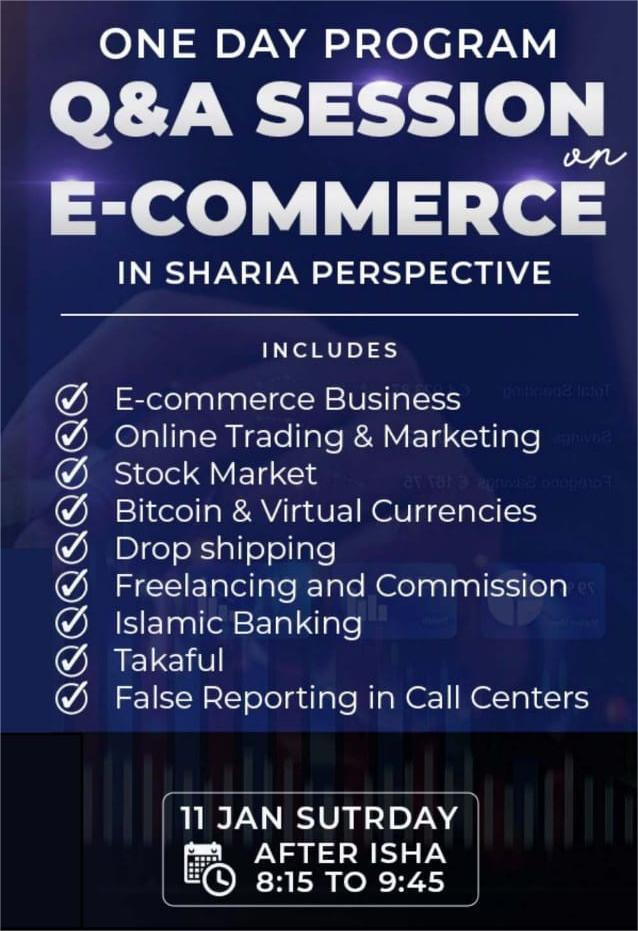
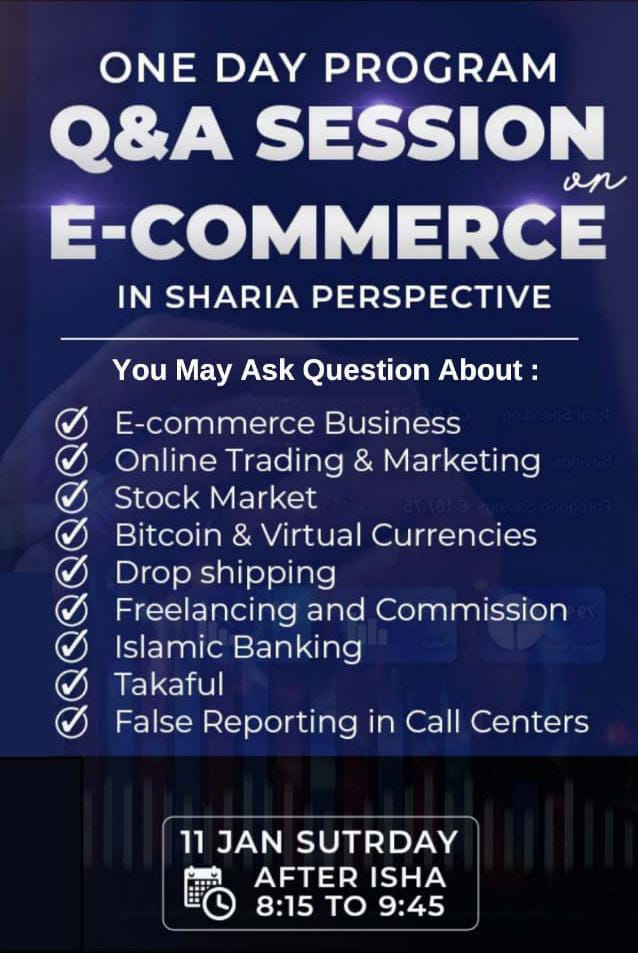
new update

diff --git a/src/componentHome/Welcom.jsx b/src/componentHome/Welcom.jsx
@@ -7,14 +7,13 @@ export default function Welcom() {
       <h1 className="text-4xl md:text-6xl playfair font-bold text-center pt-8 pb-2" data-aos="zoom-in">
         Welcome to the Islamic World
       </h1>
-      <p className="text-center text-lg md:text-2xl font-semibold pb-10" data-aos="fade-up"
-     data-aos-duration="3000">
+      <p className="text-center text-lg md:text-2xl font-semibold pb-10" data-aos="zoom-in">
         Education at Your Doorstep
       </p>
 
       <div className="p-6 geist leading-6 md:leading-9 text-sm md:text-xl  border-2 border-black rounded-lg shadow-xl bg-gray-100  shadow-gray-700 mx-auto max-w-2xl" data-aos="flip-left"
      data-aos-easing="ease-out-cubic"
-     data-aos-duration="2000">
+     data-aos-duration="1000">
         <p>
           Our organization is committed to spreading Islam to every home. Now,
           it is no longer necessary to go anywhere because education will come

diff --git a/src/compunentCourse/CurrentCourse.jsx b/src/compunentCourse/CurrentCourse.jsx
@@ -5,7 +5,15 @@ import { Button } from "flowbite-react";
 // import Nazra from "../assets/courseOne/nazra1.jpg";
 // import norani from "../assets/courseOne/norani.jpg";
 import post from "../assets/popup/post.jpg"
+import { useNavigate } from "react-router-dom";
 export default function Course() {
+     const Navigate = useNavigate();
+    const register = ()=>{
+        Navigate("/registration");
+    }
+
+
+
   const CourseDtails = [
     {
       name1: "Q%A Session On E-Commerce",
@@ -102,7 +110,7 @@ export default function Course() {
                 <p className="pt-2">~{CourseDtails[id].Doration}</p>
               </div>
               <div>
-                <Button color="blue" className="mt-4 w-[100%]">
+                <Button color="blue" className="mt-4 w-[100%]" onClick={register}>
                   Enroll Now
                 </Button>
               </div>

diff --git a/src/App.jsx b/src/App.jsx
@@ -66,7 +66,7 @@ export default function App() {
     { path: "/qurantarjama", element: (<Suspense fallback={<Loader />}><QuranTarjama /></Suspense>) },
     { path: "/contact", element: (<Suspense fallback={<Loader />}><Contact /></Suspense>) },
     { path: "/it", element: (<Suspense fallback={<Loader />}><IT /></Suspense>) },
-    { path: "registration", element: (<Suspense fallback={<Loader />}><Registration /></Suspense>) },
+    { path: "/registration", element: (<Suspense fallback={<Loader />}><Registration /></Suspense>) },
   ]);
 
   return <RouterProvider router={router} />;

diff --git a/src/compunentIndex/nabs.jsx b/src/compunentIndex/nabs.jsx
@@ -1,6 +1,6 @@
 import React, { useEffect } from "react";
 import { Navbar, Button } from "flowbite-react";
-import AOS from "aos";
+// import AOS from "aos";
 import "aos/dist/aos.css";
 // import Typewriter from "typewriter-effect";
 import { Dropdown } from "flowbite-react";
